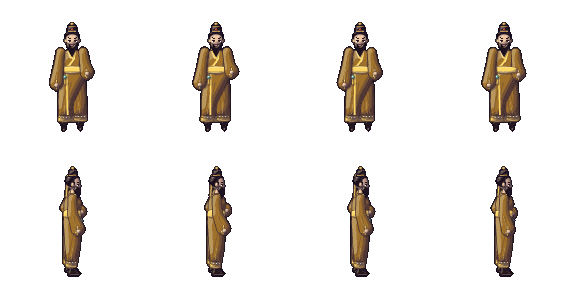
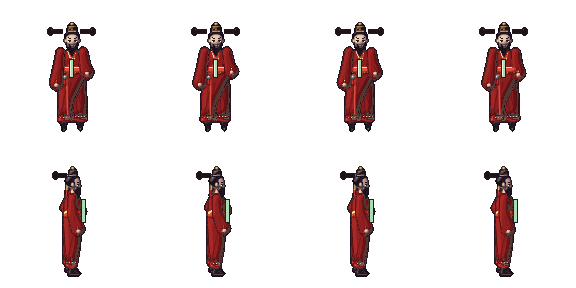
Draw dedicated sprites for the chef, mystery merchant and city official NPCs
Claude-Session: https://claude.ai/code/session_01AqWtbjMjwaw5KPYKGcCy7Z

diff --git a/server/data/changelog.js b/server/data/changelog.js
@@ -4,6 +4,7 @@ const CHANGELOG = [
   {
     date: '02/11/2026',
     items: [
+      '🎨 Vẽ hình riêng cho 3 NPC mới: Đầu Bếp Tửu Lâu (áo chàm, mũ trắng, tạp dề, muôi), Thương Nhân Bí Ẩn (áo choàng tím, mũ trùm, mạng che mặt, đèn lồng tím) và Thành Quan Lâm An (quan phục đỏ, mũ cánh chuồn, hốt ngọc)',
       '🎣 Câu cá & nấu ăn: mua Cần Câu + Mồi Câu ở Đầu Bếp Tửu Lâu (Tương Dương), đứng sát mép sông hồ ở bất kỳ bản đồ nào (kể cả thành, khu VIP) rồi bấm 🎣. Phao chìm "Cá cắn câu!" thì bấm GIẬT CẦN (hoặc phím Space) – có chế độ Câu liên tục, có Vé Treo Máy thì tự giật. 7 loại cá (Kim Long Ngư cực hiếm), có cả rác và rương báu; bãi cấp cao và ban đêm dễ ra cá hiếm; lưu kỷ lục cân nặng. Mang cá về Đầu Bếp nấu 5 món ăn: +10% đến +25% kinh nghiệm, + công / thủ / máu trong 30-60 phút',
       '🏯 Công Thành Chiến (20:30 thứ Sáu): các bang tranh Lâm An Thành. Bang chủ / Trưởng lão báo danh với Thành Quan Lâm An ở Tương Dương (50.000 quỹ bang), thành viên cấp 40+ vào trận. Phá Long Ấn giữa nội thành để chiếm – Long Ấn bắn sét kẻ địch đứng gần. Bang giữ Long Ấn tới hết giờ làm chủ thành 7 ngày: +10% kinh nghiệm cả bang, 30% thuế chợ & giao dịch toàn máy chủ vào quỹ bang, huy hiệu 🏯 vàng cạnh tên bang',
       '🎓 Sư đồ (Bạn bè › Sư đồ, hoặc bấm vào người chơi › Bái sư): người cấp 5-29 bái sư người cấp 60+ (tối đa 3 đồ đệ). Đồ đệ luyện công cùng bản đồ với sư phụ +20% kinh nghiệm (+30% nếu chung tổ đội); đồ đệ lên cấp sư phụ nhận Sư Đức + ngân lượng; cấp 30 xuất sư – cả hai nhận quà lớn. Sư Đức đổi rương, đá, Bảo Hiểm Phù',

diff --git a/tools/npc_art/new_npcs.py b/tools/npc_art/new_npcs.py
@@ -1,0 +1,199 @@
+# Vẽ NPC mới theo đúng phong cách bộ NPC hiện có (ô 144, 4 khung x 2 hàng: trước / nghiêng):
+# lấy dáng người của một NPC có sẵn làm khung, đổi màu trang phục theo độ sáng gốc (giữ nếp vải), rồi vẽ thêm phụ kiện
+# riêng từng điểm ảnh (mũ, tạp dề, muôi, mũ trùm, mạng che mặt, đèn lồng, mũ cánh chuồn, hốt ngọc...).
+#   python3 tools/npc_art/new_npcs.py   -> ghi public/assets/npcs/{dau_bep,dem_thuong_nhan,ct_thanh_quan}.png
+import colorsys, os
+from PIL import Image, ImageDraw
+
+ROOT = os.path.join(os.path.dirname(__file__), '..', '..', 'public', 'assets', 'npcs')
+C = 144
+OUT = (37, 23, 35, 255)   # màu viền tối của bộ NPC
+
+
+def load(n):
+    im = Image.open(os.path.join(ROOT, n + '.png')).convert('RGBA')
+    BOB_SRC[id(im)] = im.copy()
+    return im
+
+
+def hsv(p):
+    return colorsys.rgb_to_hsv(p[0] / 255, p[1] / 255, p[2] / 255)
+
+
+def is_robe(p, y):
+    h, s, v = hsv(p)
+    return p[3] > 128 and 0.03 <= h <= 0.16 and s >= 0.38 and y >= 46
+
+
+def ramp_at(ramp, t):
+    t = max(0.0, min(1.0, t)) * (len(ramp) - 1)
+    i = min(int(t), len(ramp) - 2); f = t - i
+    a, b = ramp[i], ramp[i + 1]
+    return tuple(int(a[k] + (b[k] - a[k]) * f) for k in range(3)) + (255,)
+
+
+def hexc(h):
+    h = h.lstrip('#'); return tuple(int(h[i:i + 2], 16) for i in (0, 2, 4))
+
+
+def recolor(im, ramp, keep_trim=True, mask=None):
+    """đổi màu áo: ánh xạ độ sáng của điểm ảnh áo gốc lên thang màu mới (giữ nếp, bóng)"""
+    px = im.load(); W, H = im.size
+    ramp = [hexc(c) for c in ramp]
+    for fy in range(H // C):
+        for fx in range(W // C):
+            pts = []
+            for y in range(C):
+                for x in range(C):
+                    p = px[fx * C + x, fy * C + y]
+                    if is_robe(p, y) and (mask is None or mask(x, y, fy)):
+                        h, s, v = hsv(p)
+                        if keep_trim and v > 0.93 and s < 0.5: continue   # viền chỉ vàng sáng: giữ
+                        pts.append((x, y, v))
+            if not pts: continue
+            lo = min(v for *_, v in pts); hi = max(v for *_, v in pts)
+            for x, y, v in pts:
+                px[fx * C + x, fy * C + y] = ramp_at(ramp, (v - lo) / max(1e-6, hi - lo))
+    return im
+
+
+def frames(im):
+    for fy in range(2):
+        for fx in range(4):
+            yield fy, fx, fx * C, fy * C
+
+
+BOB_SRC = {}
+def bob(im, fx, fy):
+    """độ nhún của khung (so đỉnh đầu với khung 0 cùng hàng) – đo trên ảnh gốc, trước khi vẽ thêm phụ kiện"""
+    a = BOB_SRC[id(im)].getchannel('A')
+    top = lambda x0, y0: a.crop((x0, y0, x0 + C, y0 + C)).getbbox()[1]
+    return top(fx * C, fy * C) - top(0, fy * C)
+
+
+def px_rect(d, x, y, w, h, col, outline=True):
+    if outline: d.rectangle([x - 1, y - 1, x + w, y + h], fill=OUT)
+    d.rectangle([x, y, x + w - 1, y + h - 1], fill=col)
+
+
+# ---------------------------------------------------------------- Đầu Bếp Tửu Lâu
+def dau_bep():
+    im = load('thuong_nhan')
+    recolor(im, ['#2a3a52', '#3e5878', '#5a7ea4', '#86a8c8'])   # áo vải chàm của đầu bếp
+    d = ImageDraw.Draw(im)
+    for fy, fx, X, Y in frames(im):
+        b = bob(im, fx, fy)
+        if fy == 0:   # nhìn thẳng
+            # tạp dề trắng từ ngực xuống gối, dây buộc quanh eo
+            d.polygon([(X + 65, Y + 69 + b), (X + 78, Y + 69 + b), (X + 80, Y + 101 + b), (X + 63, Y + 101 + b)], fill=OUT)
+            d.polygon([(X + 66, Y + 70 + b), (X + 77, Y + 70 + b), (X + 79, Y + 100 + b), (X + 64, Y + 100 + b)], fill=(238, 234, 222, 255))
+            d.line([(X + 66, Y + 71 + b), (X + 64, Y + 99 + b)], fill=(255, 255, 250, 255))   # mép sáng
+            d.line([(X + 77, Y + 71 + b), (X + 79, Y + 99 + b)], fill=(200, 194, 178, 255))   # mép tối
+            d.line([(X + 58, Y + 69 + b), (X + 85, Y + 69 + b)], fill=(226, 220, 204, 255))   # dây buộc
+            d.rectangle([X + 69, Y + 84 + b, X + 74, Y + 88 + b], outline=(200, 194, 178, 255))   # túi tạp dề
+            # mũ đầu bếp trắng phồng
+            d.ellipse([X + 62, Y + 17 + b, X + 81, Y + 32 + b], fill=OUT)
+            d.ellipse([X + 63, Y + 18 + b, X + 80, Y + 31 + b], fill=(246, 244, 236, 255))
+            d.ellipse([X + 65, Y + 19 + b, X + 71, Y + 24 + b], fill=(255, 255, 255, 255))
+            d.line([(X + 71, Y + 20 + b), (X + 70, Y + 29 + b)], fill=(214, 210, 198, 255))
+            px_rect(d, X + 64, Y + 29 + b, 16, 5, (232, 228, 216, 255))
+            # muôi gỗ ở tay phải (bên phải ảnh)
+            d.line([(X + 88, Y + 70 + b), (X + 96, Y + 46 + b)], fill=OUT, width=3)
+            d.line([(X + 88, Y + 70 + b), (X + 96, Y + 46 + b)], fill=(150, 104, 58, 255), width=1)
+            d.ellipse([X + 92, Y + 38 + b, X + 102, Y + 47 + b], fill=OUT)
+            d.ellipse([X + 93, Y + 39 + b, X + 101, Y + 46 + b], fill=(184, 186, 196, 255))
+            d.point((X + 95, Y + 41 + b), fill=(240, 240, 250, 255))
+        else:   # nghiêng sang phải
+            d.polygon([(X + 78, Y + 68 + b), (X + 84, Y + 69 + b), (X + 85, Y + 101 + b), (X + 77, Y + 101 + b)], fill=OUT)
+            d.polygon([(X + 79, Y + 69 + b), (X + 83, Y + 70 + b), (X + 84, Y + 100 + b), (X + 78, Y + 100 + b)], fill=(238, 234, 222, 255))
+            d.ellipse([X + 64, Y + 15 + b, X + 82, Y + 29 + b], fill=OUT)
+            d.ellipse([X + 65, Y + 16 + b, X + 81, Y + 28 + b], fill=(246, 244, 236, 255))
+            d.ellipse([X + 67, Y + 17 + b, X + 72, Y + 21 + b], fill=(255, 255, 255, 255))
+            px_rect(d, X + 66, Y + 27 + b, 15, 5, (232, 228, 216, 255))
+            d.line([(X + 82, Y + 86 + b), (X + 92, Y + 64 + b)], fill=OUT, width=3)
+            d.line([(X + 82, Y + 86 + b), (X + 92, Y + 64 + b)], fill=(150, 104, 58, 255), width=1)
+            d.ellipse([X + 88, Y + 56 + b, X + 98, Y + 65 + b], fill=OUT)
+            d.ellipse([X + 89, Y + 57 + b, X + 97, Y + 64 + b], fill=(184, 186, 196, 255))
+    return im
+
+
+# ---------------------------------------------------------------- Thương Nhân Bí Ẩn
+def dem_thuong_nhan():
+    im = load('thuong_nhan')
+    recolor(im, ['#1a1028', '#2e1a48', '#4a2a72', '#6e48a0'], keep_trim=False)   # áo choàng tím thẫm
+    base = im.copy()
+    d = ImageDraw.Draw(im)
+    hood, hood2, veil = (40, 24, 62, 255), (70, 46, 104, 255), (26, 16, 34, 255)
+    def face(X, Y, b, box):   # trả lại khuôn mặt gốc trong khung mũ trùm
+        m = Image.new('L', im.size, 0); ImageDraw.Draw(m).ellipse([X + box[0], Y + box[1] + b, X + box[2], Y + box[3] + b], fill=255)
+        im.paste(base, (0, 0), m)
+    for fy, fx, X, Y in frames(im):
+        b = bob(im, fx, fy)
+        if fy == 0:
+            # mũ trùm che tóc, rủ xuống vai
+            d.ellipse([X + 58, Y + 21 + b, X + 85, Y + 56 + b], fill=OUT)
+            d.ellipse([X + 59, Y + 22 + b, X + 84, Y + 55 + b], fill=hood)
+            d.polygon([(X + 57, Y + 50 + b), (X + 86, Y + 50 + b), (X + 89, Y + 63 + b), (X + 54, Y + 63 + b)], fill=OUT)
+            d.polygon([(X + 58, Y + 50 + b), (X + 85, Y + 50 + b), (X + 87, Y + 62 + b), (X + 56, Y + 62 + b)], fill=hood)
+            d.arc([X + 60, Y + 23 + b, X + 83, Y + 54 + b], 200, 260, fill=hood2)
+            face(X, Y, b, (64, 33, 78, 54))
+            d.arc([X + 63, Y + 32 + b, X + 79, Y + 55 + b], 180, 360, fill=OUT)   # bóng vành mũ trên trán
+            d.rectangle([X + 65, Y + 46 + b, X + 77, Y + 53 + b], fill=veil)   # mạng che nửa mặt dưới
+            d.line([(X + 65, Y + 46 + b), (X + 77, Y + 46 + b)], fill=(130, 90, 180, 255))
+            d.point((X + 71, Y + 44 + b), fill=(150, 100, 200, 255))
+            # đèn lồng tím treo ở tay trái
+            lx, ly = X + 52, Y + 92 + b
+            d.line([(X + 56, Y + 82 + b), (lx, ly - 6)], fill=OUT)
+            d.ellipse([lx - 6, ly - 6, lx + 6, ly + 8], fill=OUT)
+            d.ellipse([lx - 5, ly - 5, lx + 5, ly + 7], fill=(150, 70, 220, 255))
+            d.ellipse([lx - 3, ly - 2, lx + 3, ly + 4], fill=(230, 190, 255, 255))
+            d.rectangle([lx - 4, ly - 7, lx + 4, ly - 6], fill=(200, 160, 60, 255)); d.rectangle([lx - 4, ly + 7, lx + 4, ly + 8], fill=(200, 160, 60, 255))
+        else:
+            d.ellipse([X + 59, Y + 18 + b, X + 83, Y + 52 + b], fill=OUT)
+            d.ellipse([X + 60, Y + 19 + b, X + 82, Y + 51 + b], fill=hood)
+            d.polygon([(X + 60, Y + 44 + b), (X + 78, Y + 46 + b), (X + 80, Y + 60 + b), (X + 58, Y + 62 + b)], fill=hood)
+            face(X, Y, b, (71, 31, 82, 50))
+            d.rectangle([X + 74, Y + 43 + b, X + 80, Y + 49 + b], fill=veil)
+            px_rect(d, X + 57, Y + 56 + b, 6, 16, (92, 64, 40, 255))   # túi hàng sau lưng
+            lx, ly = X + 86, Y + 96 + b
+            d.line([(X + 82, Y + 86 + b), (lx, ly - 6)], fill=OUT)
+            d.ellipse([lx - 6, ly - 6, lx + 6, ly + 8], fill=OUT)
+            d.ellipse([lx - 5, ly - 5, lx + 5, ly + 7], fill=(150, 70, 220, 255))
+            d.ellipse([lx - 3, ly - 2, lx + 3, ly + 4], fill=(230, 190, 255, 255))
+    return im
+
+
+# ---------------------------------------------------------------- Thành Quan Lâm An
+def ct_thanh_quan():
+    im = load('thanh_chu_lan_chau')
+    recolor(im, ['#3a0a0e', '#6e1418', '#a82a26', '#d8503c'])   # quan phục đỏ thắm, giữ viền chỉ vàng
+    d = ImageDraw.Draw(im)
+    for fy, fx, X, Y in frames(im):
+        b = bob(im, fx, fy)
+        a = BOB_SRC[id(im)].getchannel('A').crop((X, Y, X + C, Y + C)); top = a.getbbox()[1]
+        if fy == 0:
+            # mũ ô sa cánh chuồn: hai cánh đen dài hai bên mũ
+            wy = Y + top + 9
+            for side in (-1, 1):
+                x0 = X + 71 + side * 9
+                x1 = X + 71 + side * 21
+                d.rectangle([min(x0, x1), wy - 2, max(x0, x1), wy + 2], fill=OUT)
+                d.rectangle([min(x0, x1) + (1 if side < 0 else 0), wy - 1, max(x0, x1) - (0 if side < 0 else 1), wy + 1], fill=(28, 20, 26, 255))
+                d.ellipse([x1 - 3, wy - 4, x1 + 3, wy + 4], fill=OUT); d.ellipse([x1 - 2, wy - 3, x1 + 2, wy + 3], fill=(28, 20, 26, 255))
+                d.point((x1 + side * -1, wy - 2), fill=(90, 80, 90, 255))
+            # bổ tử thêu hạc trước ngực + hốt ngọc cầm hai tay
+            px_rect(d, X + 70, Y + 60 + b, 3, 17, (170, 220, 180, 255))   # hốt ngọc
+            d.line([(X + 70, Y + 61 + b), (X + 70, Y + 75 + b)], fill=(225, 250, 230, 255))
+        else:
+            wy = Y + top + 9
+            d.rectangle([X + 56, wy - 2, X + 66, wy + 2], fill=OUT); d.rectangle([X + 57, wy - 1, X + 66, wy + 1], fill=(28, 20, 26, 255))
+            d.ellipse([X + 52, wy - 4, X + 58, wy + 4], fill=OUT); d.ellipse([X + 53, wy - 3, X + 57, wy + 3], fill=(28, 20, 26, 255))
+            px_rect(d, X + 82, Y + 56 + b, 3, 22, (170, 220, 180, 255))
+    return im
+
+
+if __name__ == '__main__':
+    for name, fn in (('dau_bep', dau_bep), ('dem_thuong_nhan', dem_thuong_nhan), ('ct_thanh_quan', ct_thanh_quan)):
+        im = fn()
+        im.save(os.path.join(ROOT, name + '.png'), optimize=True)
+        print('ok', name)
